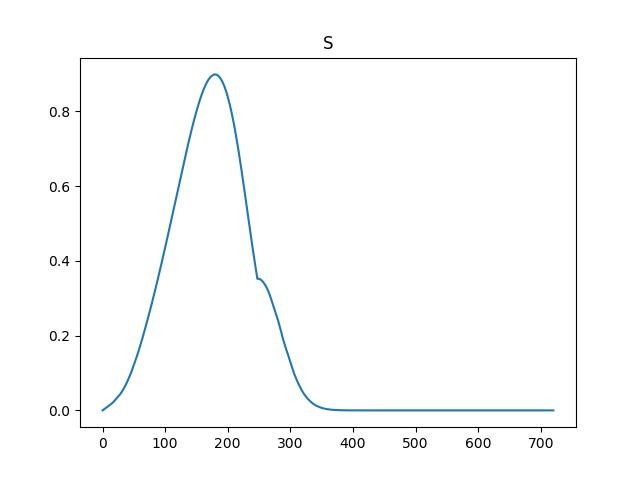
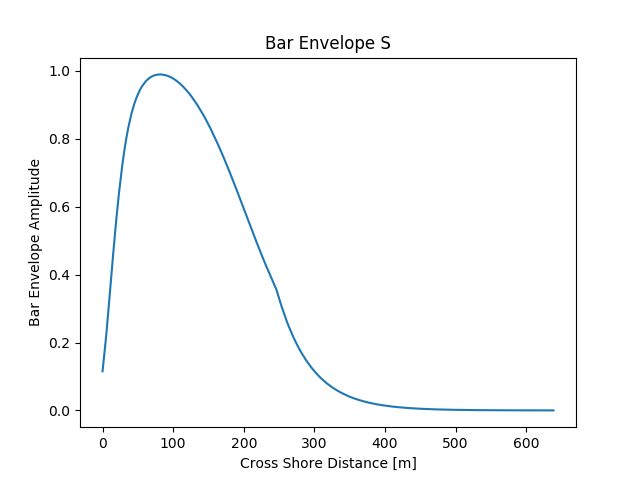
Added plots, edited bathycode

diff --git a/python/genbathy.py b/python/genbathy.py
@@ -9,9 +9,12 @@ interactive(True)
 from scipy.optimize import fsolve
 import bathytools as bt
 
-bathyset = bt.retrieveData(2016,6,1)
-pNumber = 914
+bathyset = bt.retrieveData(2016,month,26)
+pNumber = 1006
 time,x,transect = bt.transect(bathyset,pNumber)
+pl.plot(x,transect)
+
+hsea = 3.9
 
 
 ##beta is the asymptotic offshore slope, assume an x number to be seaward of the active
@@ -29,14 +32,14 @@ x = x[shore_ind:]-x[shore_ind]
 transect = -1*transect[shore_ind:]
 
 #Find slope seaward of bar movement as where h=4.5m. (Holman)
-offshore = np.where(np.abs(transect-4.5) == np.min(np.abs(transect-4.5)))[0][0]
+offshore = np.where(np.abs(transect-hsea) == np.min(np.abs(transect-hsea)))[0][0]
 beta = np.divide(np.diff(transect[offshore:]),np.diff(x[offshore:]))
 beta_0 = np.mean(beta)
 
 ##Choose a point to find depth h_, randomly chose 60 offshore of the offshore point
 #Criteria is that betaOffshore * x Offshore < hOffshore
-h_ = transect[offshore+60]
-x_ = x[offshore+60]
+h_ = transect[offshore+10]
+x_ = x[offshore+10]
 
 
 #Now, find gamma and k by solving the two functions (equations 5 and 7) simultaneously
@@ -63,11 +66,11 @@ delta = 0.3
 c = 0.09
 #Find sea depth and shore depth
 h0 = np.array(h0)
-offshore = np.where(np.abs(h0-4.5) == np.min(np.abs(h0-4.5)))[0][0]
+offshore = np.where(np.abs(h0-hsea) == np.min(np.abs(h0-hsea)))[0][0]
 h0_shore = h0[0]
 h0_sea = h0[offshore]
 x_sea = x[offshore]
-Smax = 0.2*h0_sea
+Smax = 0.3*h0_sea
 bar_zone_depth = [(hh - h0_shore)/(h0_sea - h0_shore) for hh in h0]
 expfun = [np.exp(-((1 - ((hh-h0_shore)/(h0_sea-h0_shore)))**a - b)**2/c) for hh in h0]
 maxInd = np.where(expfun == np.nanmax(expfun))[0][0]
@@ -92,18 +95,15 @@ bL = 0.27
 L = [aL*np.exp(bL*hh) for hh in h0]
 Lpi = [2*np.pi/ll for ll in L]
 Lpi.reverse()
-int_x = np.flip(x,axis = 0)
 dx = np.mean(np.diff(x))
 theta = np.flip(np.cumsum(Lpi)*dx,axis = 0)
 
 #Cosine function, find at depth of breaking
-xb = 180
+xb = 170
 hb = np.interp(xb,x,h0)
 thetab = np.interp(hb,h0,theta)
 cos = np.cos(theta - thetab)
 hbar = -1*np.multiply(S,cos)
-
 transect_simulated = h0 + hbar
-
-pl.plot(x,-1*transect_simulated)
-pl.plot(x,-1*transect)
+pl.plot(x,-1*transect_simulated, label = 'hsea' + str(hsea))
+pl.plot(x,-1*transect, label = 'hsea' + str(hsea))
